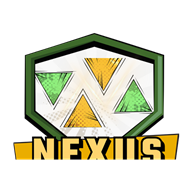
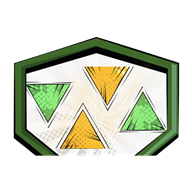
leaderboard fixz

diff --git a/client/src/pages/participant/ParticipantChallengePage.tsx b/client/src/pages/participant/ParticipantChallengePage.tsx
@@ -4,7 +4,7 @@ import { CountdownTimer } from '../../components/CountdownTimer';
 import { LoadingState, ErrorState } from '../../components/StateViews';
 import { useSyncedTopic } from '../../hooks/useSyncedTopic';
 import { useHackathonState } from '../../hooks/useHackathon';
-import { useCeoTopicReveal, useMyCeoChallenge, useSubmitCeoAnswer } from '../../hooks/useCeoChallenge';
+import { useCeoOverallLeaderboard, useCeoTopicReveal, useMyCeoChallenge, useSubmitCeoAnswer } from '../../hooks/useCeoChallenge';
 import { useAuthStore } from '../../store/authStore';
 import { getApiErrorMessage } from '../../lib/apiClient';
 import { comicButton } from '../../lib/comic';
@@ -81,6 +81,43 @@ function TopicReveal({
             </ol>
           )}
         </div>
+      )}
+    </div>
+  );
+}
+
+/** The running top-5 scorers for the whole round so far — stays mounted (and
+ * polling) for as long as `enabled` (== the round being active) is true,
+ * covering every topic's answering AND reveal phases, not just one topic's
+ * 5s reveal window like TopicReveal's own leaderboard. Unmounts once the
+ * round ends, which is what stops it polling. */
+function OverallLeaderboard({ enabled }: { enabled: boolean }) {
+  const leaderboardQuery = useCeoOverallLeaderboard(enabled);
+  const entries = leaderboardQuery.data ?? [];
+  return (
+    <div className="w-full rounded-xl border-[3px] border-ink bg-white px-5 py-4 shadow-[4px_4px_0px_#111111]" data-testid="overall-leaderboard">
+      <p className="text-xs font-black uppercase tracking-wide text-navy/60 mb-2 text-center">Top 5 Scorers</p>
+      {entries.length === 0 ? (
+        <p className="text-sm font-bold text-navy/50 text-center">No scores yet.</p>
+      ) : (
+        <ol className="flex flex-col gap-1.5">
+          {entries.map((p, i) => (
+            <li key={p.userId} className="flex items-center gap-2 text-sm font-bold text-ink">
+              <span className="w-5 shrink-0 text-xs font-black text-navy/50">{i + 1}.</span>
+              {p.avatarUrl ? (
+                <img src={p.avatarUrl} alt="" className="w-6 h-6 shrink-0 rounded-full object-cover border-2 border-ink" />
+              ) : (
+                <span className="w-6 h-6 shrink-0 rounded-full bg-gold border-2 border-ink flex items-center justify-center text-[10px] font-black text-ink">
+                  {p.fullName.charAt(0).toUpperCase()}
+                </span>
+              )}
+              <span className="truncate flex-1">{p.fullName}</span>
+              <span className="text-xs font-black text-forest shrink-0" data-testid="overall-leaderboard-score">
+                {p.score} pts
+              </span>
+            </li>
+          ))}
+        </ol>
       )}
     </div>
   );
@@ -306,6 +343,10 @@ export function ParticipantChallengePage() {
               serverNow={serverNowIso}
             />
           )}
+
+          {/* Visible for the whole round, not just one topic's reveal window —
+              disappears the instant roundActive flips false (challenge done). */}
+          {roundActive && <OverallLeaderboard enabled={roundActive} />}
         </div>
       )}
     </div>

diff --git a/client/src/hooks/useCeoChallenge.ts b/client/src/hooks/useCeoChallenge.ts
@@ -1,6 +1,6 @@
 import { useMutation, useQuery } from '@tanstack/react-query';
 import { apiClient } from '../lib/apiClient';
-import type { CeoTopicReveal, MyCeoChallengeResult, SubmitCeoAnswerResult } from '../types/api';
+import type { CeoOverallLeaderboardEntry, CeoTopicReveal, MyCeoChallengeResult, SubmitCeoAnswerResult } from '../types/api';
 
 /** The active topic set for the CEO Selection Competition (req. 48-49) —
  * never includes acceptedAnswers. Who becomes CEO isn't decided by this
@@ -58,6 +58,29 @@ export function useCeoTopicReveal(questionId: string | undefined, enabled: boole
     retryDelay: 400, // 4 retries * 400ms comfortably covers ordinary clock skew within the 5s reveal window
     staleTime: 0,
     refetchInterval: 1200, // stops on its own once the reveal card unmounts at the next topic
+  });
+}
+
+/** The running top-5 scorers for the whole round so far — unlike
+ * useCeoTopicReveal's leaderboard (who got ONE topic right), this is the
+ * cumulative running score and stays relevant for the entire challenge, not
+ * just one topic's 5s reveal window. `enabled` should track the round
+ * actually being active (e.g. `roundActive` in ParticipantChallengePage) so
+ * polling stops the instant the round ends, same as the component that
+ * shows it disappearing. Polled less aggressively than the per-topic reveal
+ * (every 3s, not 1.2s) — this has the whole multi-minute round to catch up,
+ * not just a 5s window. */
+export function useCeoOverallLeaderboard(enabled: boolean) {
+  return useQuery({
+    queryKey: ['ceo-challenge-leaderboard'],
+    queryFn: async () => {
+      const { data } = await apiClient.get<CeoOverallLeaderboardEntry[]>('/participant/ceo/challenge/leaderboard');
+      return data;
+    },
+    enabled,
+    staleTime: 0,
+    refetchInterval: 3000,
+    retry: 2,
   });
 }
 

diff --git a/client/src/pages/auth/LoginPage.tsx b/client/src/pages/auth/LoginPage.tsx
@@ -29,21 +29,13 @@ export function LoginPage() {
 
         <div className="flex flex-col items-center gap-3 mb-1">
           <div className="relative">
-            <img
-              src="/nexus-icon.png"
-              alt="Nexus Multiverse"
-              className="relative w-20 h-20 rounded-2xl border-[3px] border-ink shadow-[4px_4px_0px_#111111]"
-            />
+            <img src="/nexus-icon-v2.png" alt="Nexus Multiverse" className="relative w-36 h-36 object-contain" />
             {/* A small spark orbiting the mark, echoing the logo's own ring-and-globe motif. */}
             <div
               className="pointer-events-none absolute left-1/2 top-1/2 -ml-1.5 -mt-1.5 w-3 h-3 rounded-full bg-crimson border-2 border-ink animate-orbit"
-              style={{ '--orbit-radius': '46px' } as CSSProperties}
+              style={{ '--orbit-radius': '80px' } as CSSProperties}
             />
           </div>
-          <h1 className="text-3xl font-black text-center tracking-tight uppercase">
-            <span className="text-crimson">Nexus</span>{' '}
-            <span className="text-forest">Multiverse</span> <span className="text-navy">2026</span>
-          </h1>
         </div>
         <p className="text-center text-navy font-bold text-xs uppercase tracking-[0.2em] mb-7">Team Building &amp; Pitch</p>
 

diff --git a/client/src/pages/admin/PresenterPage.tsx b/client/src/pages/admin/PresenterPage.tsx
@@ -104,7 +104,7 @@ export function PresenterPage() {
       <AmbientBackground />
       <div className="flex items-center justify-between px-6 py-3 border-b-[3px] border-ink bg-white">
         <div className="flex items-center gap-2">
-          <img src="/nexus-icon.png" alt="" className="w-7 h-7 rounded-md border-[3px] border-ink" />
+          <img src="/nexus-icon-v2.png" alt="" className="w-7 h-7 rounded-md border-[3px] border-ink" />
           <Link to="/admin/dashboard" className="text-xs font-black uppercase text-navy hover:text-crimson transition">
             ← Exit presenter view
           </Link>
@@ -182,7 +182,7 @@ function IdleScreen() {
   return (
     <div className="text-center flex flex-col items-center gap-6">
       <img
-        src="/nexus-logo.png"
+        src="/nexus-logo-v2.png"
         alt="Nexus Multiverse 2026"
         className="w-full max-w-xl rounded-2xl border-[3px] border-ink shadow-[8px_8px_0px_#111111]"
       />

diff --git a/client/test/routes.test.tsx b/client/test/routes.test.tsx
@@ -43,10 +43,9 @@ describe('Protected frontend routes', () => {
   it('redirects an unauthenticated visitor away from a protected route, to /login', () => {
     useAuthStore.setState({ user: null, status: 'unauthenticated' });
     renderAt('/admin/dashboard');
-    // The heading's "Nexus"/"Multiverse"/"2026" segments are separately-colored
-    // spans (see LoginPage.tsx), so match on the h1's aggregate text rather
-    // than a single text node.
-    expect(screen.getByRole('heading', { name: /nexus\s*multiverse\s*2026/i })).toBeInTheDocument();
+    // LoginPage has no text heading (just the Nexus mark + tagline), so
+    // confirm the redirect landed there via the logo's alt text instead.
+    expect(screen.getByAltText('Nexus Multiverse')).toBeInTheDocument();
   });
 
   it('renders the admin dashboard shell for an authenticated ADMIN', async () => {

diff --git a/client/src/types/api.ts b/client/src/types/api.ts
@@ -89,6 +89,15 @@ export type CeoTopicReveal = {
   leaderboard: { userId: string; fullName: string; avatarUrl: string | null }[];
 };
 
+// The running top-5 scorers for the whole round so far (not per-topic like
+// CeoTopicReveal's leaderboard) — see the backend's getCeoOverallLeaderboard.
+export type CeoOverallLeaderboardEntry = {
+  userId: string;
+  fullName: string;
+  avatarUrl: string | null;
+  score: number;
+};
+
 // Admin-only — includes acceptedAnswers, since question management needs it.
 export type CeoQuestion = {
   id: string;

diff --git a/client/src/components/AppShell.tsx b/client/src/components/AppShell.tsx
@@ -16,7 +16,7 @@ export function AppShell({ title, nav, children }: { title: string; nav?: ReactN
         <div className="max-w-5xl mx-auto px-4 py-3 flex items-center justify-between gap-4">
           <div className="flex items-center gap-2.5">
             <img
-              src="/nexus-icon.png"
+              src="/nexus-icon-v2.png"
               alt="Nexus Multiverse"
               className="w-9 h-9 rounded-lg object-cover border-[3px] border-ink shadow-[2px_2px_0px_#111111]"
             />
